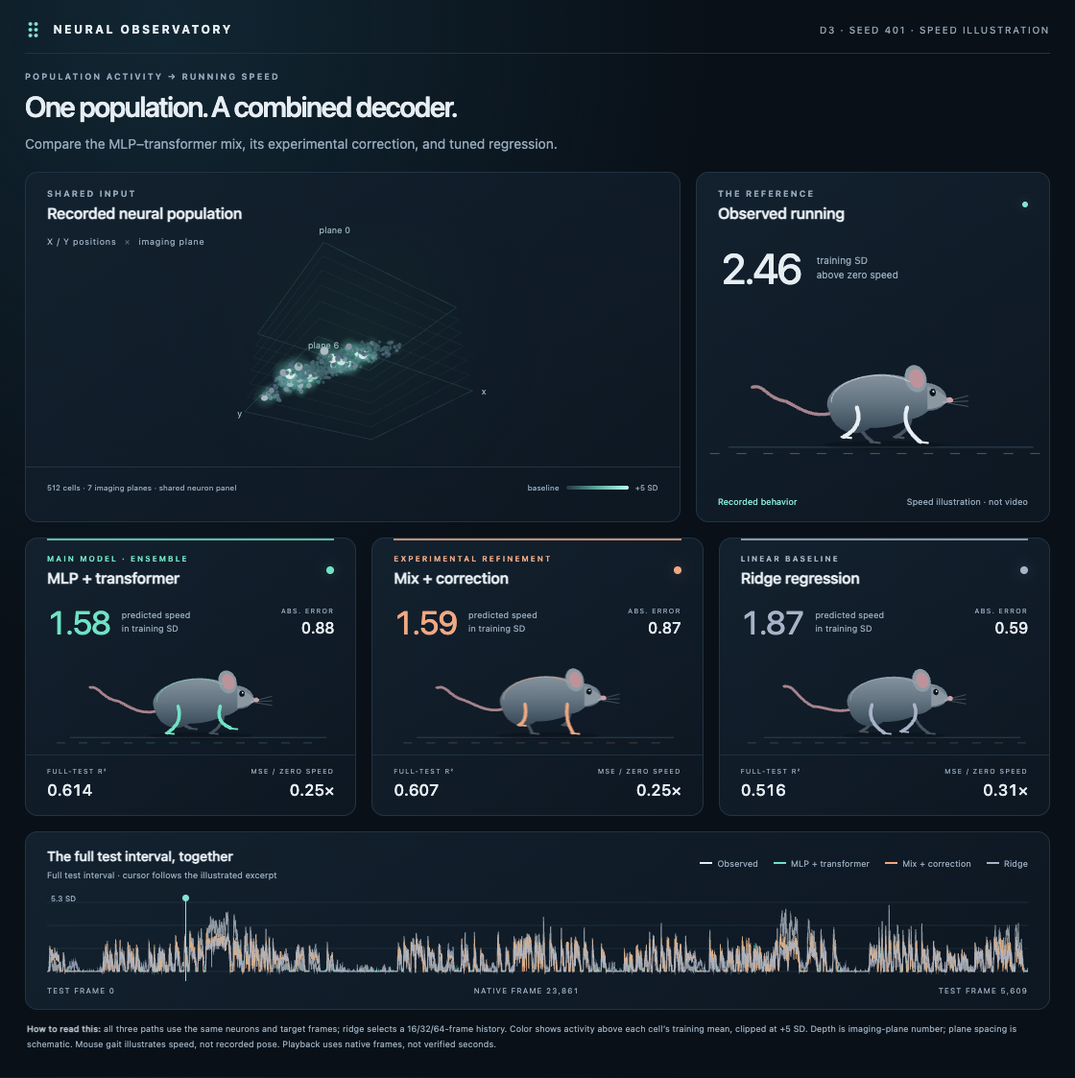
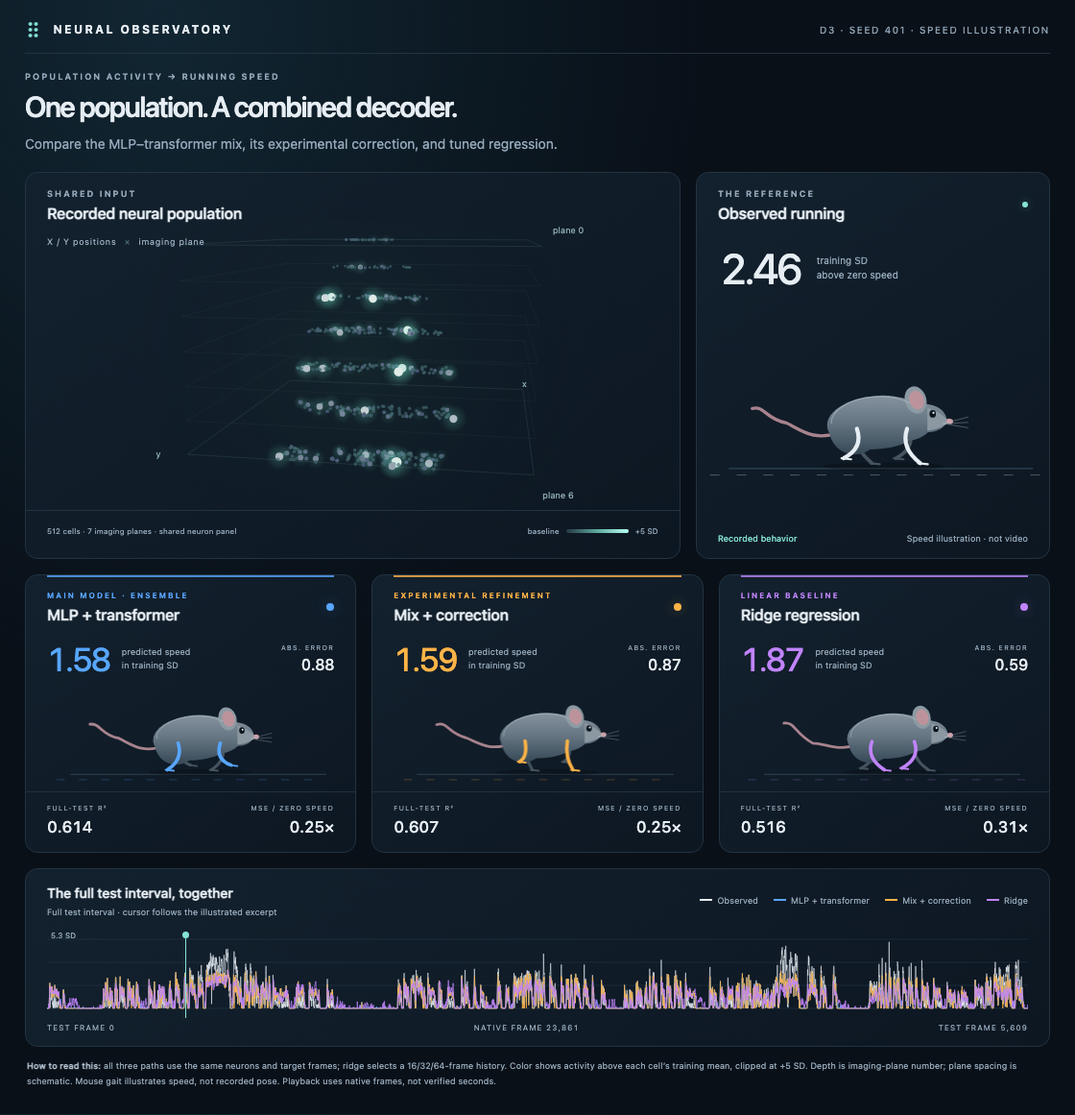
Improve replay colors and neuron view with neutral mouse bodies

diff --git a/portfolio/visualization/style.css b/portfolio/visualization/style.css
@@ -1,8 +1,8 @@
-:root{--bg:#091018;--panel:#101b27;--line:#233342;--text:#e6edf3;--muted:#95a8b9;--cyan:#85e3d4;--blend:#6fe3c4;--corrected:#f0a882;--ridge:#a8b3c7;--observed:#e6edf3;color-scheme:dark;font-family:Inter,ui-sans-serif,-apple-system,BlinkMacSystemFont,"Segoe UI",sans-serif}
-*{box-sizing:border-box}body{margin:0;background:radial-gradient(ellipse at 15% 2%,#112632 0,transparent 42%),var(--bg);color:var(--text);font-size:14px}main{max-width:1430px;padding:24px 38px 20px;margin:auto}button,select,input{font:inherit}button,select{cursor:pointer}button:focus-visible,select:focus-visible,input:focus-visible,canvas:focus-visible,summary:focus-visible,a:focus-visible{outline:2px solid var(--cyan);outline-offset:4px}a{color:var(--cyan)}button{color:var(--text)}button:disabled{opacity:.5;cursor:wait}button:hover{filter:brightness(1.15)}.masthead{display:flex;align-items:center;justify-content:space-between;padding-bottom:25px;border-bottom:1px solid var(--line)}.brand{font-size:12px;letter-spacing:2.4px;font-weight:700;text-decoration:none;color:var(--text);display:flex;align-items:center;gap:10px}.brand-mark{font-size:25px;color:var(--cyan);line-height:1}.archive-status{font-size:10px;letter-spacing:1.6px;color:var(--muted);display:flex;align-items:center;gap:9px}.archive-status i,.live-dot{width:6px;height:6px;display:inline-block;background:var(--cyan);border-radius:100%;box-shadow:0 0 10px #85e3d44d}.intro{display:flex;justify-content:space-between;align-items:center;padding:30px 0 27px;gap:24px}.eyebrow{font-size:9px;letter-spacing:1.9px;font-weight:650;color:var(--muted);margin:0 0 9px}h1{font-size:clamp(29px,3.2vw,44px);letter-spacing:-1.5px;font-weight:550;margin:0 0 10px;line-height:1.15}.subtitle{font-size:14px;color:var(--muted);margin:0;line-height:1.6}.intro-note{display:flex;gap:18px;align-items:center;color:var(--muted);font-size:11px;line-height:1.65;flex-shrink:0}.large-number{font-size:47px;font-weight:300;color:var(--cyan);letter-spacing:-2px}.toolbar{display:flex;gap:18px;align-items:center;border:1px solid var(--line);border-radius:12px;padding:13px 17px;background:#101b27bf;margin-bottom:20px;flex-wrap:wrap}.control{font-size:8px;letter-spacing:1.45px;color:var(--muted);display:grid;gap:5px}.control select{background:transparent;color:var(--text);border:0;padding:0 22px 0 0;font-size:12px;min-height:20px;letter-spacing:.1px}.control select option{background:#101b27}.toolbar-divider{width:1px;height:30px;background:var(--line);margin:0 3px}.play-button{background:var(--cyan);color:#0e2526;border:0;border-radius:7px;height:36px;padding:0 18px;min-width:90px;font-weight:650;display:flex;align-items:center;gap:9px;justify-content:center}.icon-button{background:#182736;border:1px solid #2d3f50;border-radius:6px;width:29px;height:30px;font-size:23px;line-height:1;margin-left:-9px}.rate-control{margin-left:3px}.frame-counter{font-size:11px;font-variant-numeric:tabular-nums;color:var(--muted);margin-left:auto}.panel{background:linear-gradient(145deg,#13212e,#0d1722);border:1px solid var(--line);border-radius:13px;overflow:hidden}.input-grid{display:grid;grid-template-columns:1.85fr 1fr;gap:20px;margin-bottom:20px}.panel-heading{display:flex;justify-content:space-between;align-items:center;padding:20px 22px 0;gap:12px}h2{font-size:16px;font-weight:550;letter-spacing:-.15px;margin:0}.panel-heading .eyebrow{margin-bottom:6px}.quiet-button{background:transparent;color:var(--muted);border:1px solid #314150;border-radius:6px;font-size:10px;padding:6px 9px;white-space:nowrap}.neural-stage{height:263px;position:relative}.neural-stage canvas{width:100%;height:100%;display:block;cursor:grab;touch-action:none}.neural-stage canvas:active{cursor:grabbing}.spatial-badge{position:absolute;left:22px;top:15px;font-size:9px;letter-spacing:.6px;color:var(--muted);pointer-events:none}.spatial-badge span{color:#537483;margin:0 5px}.orbit-hint{position:absolute;left:22px;bottom:14px;font-size:8px;letter-spacing:1.5px;color:#8ba0b3;pointer-events:none}.orbit-hint span{margin:0 5px}.neural-footer{height:43px;padding:0 22px;display:flex;align-items:center;justify-content:space-between;border-top:1px solid var(--line);gap:10px;font-size:9px;color:var(--muted)}.activity-key{display:flex;align-items:center;gap:7px;white-space:nowrap;font-size:8px}.activity-key i{width:65px;height:4px;border-radius:4px;background:linear-gradient(to right,#243745,#5eab9e,#b6fff1)}.neuron-tooltip{position:absolute;top:12px;right:18px;border:1px solid #48736f;padding:10px 12px;background:#0b171eed;border-radius:8px;font-size:10px;line-height:1.75;pointer-events:none;box-shadow:0 4px 18px #0005}.reference-panel{display:flex;flex-direction:column}.reference-panel .panel-heading{padding-bottom:0}.reference-reading{display:flex;align-items:center;gap:16px;padding:22px 25px 0}.reference-reading strong{font-size:44px;letter-spacing:-2px;font-weight:450;font-variant-numeric:tabular-nums}.reference-reading span{color:var(--muted);font-size:10px;line-height:1.5}.reference-panel .mouse-canvas{height:147px;flex:1;min-height:120px}.reference-footer{display:flex;justify-content:space-between;padding:0 22px 15px;gap:10px;color:var(--muted);font-size:9px}.reference-footer>span:first-child{color:var(--cyan)}.model-grid{display:grid;grid-template-columns:repeat(3,minmax(0,1fr));gap:20px;margin-bottom:20px}.model-card{position:relative;--model:var(--blend)}.model-card.corrected{--model:var(--corrected)}.model-card.ridge{--model:var(--ridge)}.model-card:before{position:absolute;left:22px;right:22px;top:0;height:2px;content:"";background:var(--model);opacity:.8}.model-heading{display:flex;justify-content:space-between;align-items:center;padding:20px 22px 0}.model-heading .eyebrow{font-size:8px;color:var(--model);margin-bottom:6px}.model-swatch{height:8px;width:8px;border-radius:50%;background:var(--model);box-shadow:0 0 13px color-mix(in srgb,var(--model),transparent 70%)}.prediction-reading{display:flex;align-items:center;padding:17px 22px 0;gap:12px}.prediction-reading>strong{font-size:34px;font-weight:450;font-variant-numeric:tabular-nums;letter-spacing:-1.4px;color:var(--model)}.prediction-reading>span{font-size:9px;line-height:1.5;color:var(--muted)}.instant-error{margin-left:auto;text-align:right;font-size:7px;letter-spacing:1.2px;color:var(--muted)}.instant-error strong{font-variant-numeric:tabular-nums;display:block;font-size:16px;font-weight:500;letter-spacing:0;margin-top:5px;color:var(--text)}.mouse-canvas{height:125px;width:100%;display:block}.metric-row{padding:12px 22px 16px;display:flex;justify-content:space-between;border-top:1px solid #21313f;gap:10px}.metric-row>div{display:flex;flex-direction:column;gap:6px}.metric-row>div:last-child{text-align:right}.metric-row span{font-size:7px;color:var(--muted);letter-spacing:1.2px}.metric-row strong{font-size:17px;font-weight:500;font-variant-numeric:tabular-nums}.metric-row .bad{color:#ecad9e}.timeline-panel{padding:20px 22px 14px}.timeline-heading{display:flex;justify-content:space-between;align-items:center;gap:12px;margin-bottom:15px}.timeline-heading h2{font-size:14px}.timeline-heading p{font-size:9px;color:var(--muted);margin:6px 0 0}.trace-legend{display:flex;gap:16px;font-size:9px;color:var(--muted);flex-wrap:wrap}.trace-legend span:before{content:"";width:13px;height:2px;display:inline-block;background:var(--observed);margin:0 5px 3px 0}.trace-legend .blend:before{background:var(--blend)}.trace-legend .corrected:before{background:var(--corrected)}.trace-legend .ridge:before{background:var(--ridge)}.trace-stage{height:108px;position:relative;cursor:crosshair}.trace-stage canvas{width:100%;height:100%;display:block}.trace-cursor{position:absolute;left:0;top:0;bottom:0;width:1px;background:var(--cyan);pointer-events:none;box-shadow:0 0 5px #85e3d430}.trace-cursor:before{position:absolute;left:-3px;top:0;content:"";width:7px;height:7px;background:var(--cyan);border-radius:50%}input[type=range]{width:100%;height:18px;accent-color:var(--cyan);margin:5px 0 0;cursor:pointer}.timeline-labels{display:flex;justify-content:space-between;font-size:8px;letter-spacing:1px;color:var(--muted);font-variant-numeric:tabular-nums;margin-top:5px}footer{padding:18px 2px 0;color:var(--muted);font-size:10px;line-height:1.8}footer>p{max-width:1100px;margin:0 0 10px}footer strong{font-weight:550;color:#b7c5d2}details{margin-top:12px}summary{cursor:pointer;width:fit-content;color:#b9cbd8;font-size:11px}.details-content{padding:10px 18px;border-left:1px solid var(--line);max-width:1000px}.details-content p{margin:0 0 10px}.footer-line{display:flex;justify-content:space-between;border-top:1px solid var(--line);padding-top:15px;margin-top:18px;font-size:8px;letter-spacing:1.4px;color:#728799}.error{border:1px solid #f0a882;padding:15px;margin-bottom:15px;border-radius:8px}.sr-only{position:absolute;width:1px;height:1px;overflow:hidden;clip:rect(0,0,0,0);white-space:nowrap}noscript{display:block;padding:24px;color:#f0a882}
+:root{--bg:#091018;--panel:#101b27;--line:#233342;--text:#e6edf3;--muted:#95a8b9;--cyan:#85e3d4;--blend:#58a6ff;--corrected:#ffb347;--ridge:#c084fc;--observed:#e6edf3;color-scheme:dark;font-family:Inter,ui-sans-serif,-apple-system,BlinkMacSystemFont,"Segoe UI",sans-serif}
+*{box-sizing:border-box}body{margin:0;background:radial-gradient(ellipse at 15% 2%,#112632 0,transparent 42%),var(--bg);color:var(--text);font-size:14px}main{max-width:1430px;padding:24px 38px 20px;margin:auto}button,select,input{font:inherit}button,select{cursor:pointer}button:focus-visible,select:focus-visible,input:focus-visible,canvas:focus-visible,summary:focus-visible,a:focus-visible{outline:2px solid var(--cyan);outline-offset:4px}a{color:var(--cyan)}button{color:var(--text)}button:disabled{opacity:.5;cursor:wait}button:hover{filter:brightness(1.15)}.masthead{display:flex;align-items:center;justify-content:space-between;padding-bottom:25px;border-bottom:1px solid var(--line)}.brand{font-size:12px;letter-spacing:2.4px;font-weight:700;text-decoration:none;color:var(--text);display:flex;align-items:center;gap:10px}.brand-mark{font-size:25px;color:var(--cyan);line-height:1}.archive-status{font-size:10px;letter-spacing:1.6px;color:var(--muted);display:flex;align-items:center;gap:9px}.archive-status i,.live-dot{width:6px;height:6px;display:inline-block;background:var(--cyan);border-radius:100%;box-shadow:0 0 10px #85e3d44d}.intro{display:flex;justify-content:space-between;align-items:center;padding:30px 0 27px;gap:24px}.eyebrow{font-size:9px;letter-spacing:1.9px;font-weight:650;color:var(--muted);margin:0 0 9px}h1{font-size:clamp(29px,3.2vw,44px);letter-spacing:-1.5px;font-weight:550;margin:0 0 10px;line-height:1.15}.subtitle{font-size:14px;color:var(--muted);margin:0;line-height:1.6}.intro-note{display:flex;gap:18px;align-items:center;color:var(--muted);font-size:11px;line-height:1.65;flex-shrink:0}.large-number{font-size:47px;font-weight:300;color:var(--cyan);letter-spacing:-2px}.toolbar{display:flex;gap:18px;align-items:center;border:1px solid var(--line);border-radius:12px;padding:13px 17px;background:#101b27bf;margin-bottom:20px;flex-wrap:wrap}.control{font-size:8px;letter-spacing:1.45px;color:var(--muted);display:grid;gap:5px}.control select{background:transparent;color:var(--text);border:0;padding:0 22px 0 0;font-size:12px;min-height:20px;letter-spacing:.1px}.control select option{background:#101b27}.toolbar-divider{width:1px;height:30px;background:var(--line);margin:0 3px}.play-button{background:var(--cyan);color:#0e2526;border:0;border-radius:7px;height:36px;padding:0 18px;min-width:90px;font-weight:650;display:flex;align-items:center;gap:9px;justify-content:center}.icon-button{background:#182736;border:1px solid #2d3f50;border-radius:6px;width:29px;height:30px;font-size:23px;line-height:1;margin-left:-9px}.rate-control{margin-left:3px}.frame-counter{font-size:11px;font-variant-numeric:tabular-nums;color:var(--muted);margin-left:auto}.panel{background:linear-gradient(145deg,#13212e,#0d1722);border:1px solid var(--line);border-radius:13px;overflow:hidden}.input-grid{display:grid;grid-template-columns:1.85fr 1fr;gap:20px;margin-bottom:20px}.panel-heading{display:flex;justify-content:space-between;align-items:center;padding:20px 22px 0;gap:12px}h2{font-size:16px;font-weight:550;letter-spacing:-.15px;margin:0}.panel-heading .eyebrow{margin-bottom:6px}.quiet-button{background:transparent;color:var(--muted);border:1px solid #314150;border-radius:6px;font-size:10px;padding:6px 9px;white-space:nowrap}.neural-stage{height:300px;position:relative}.neural-stage canvas{width:100%;height:100%;display:block;cursor:grab;touch-action:none}.neural-stage canvas:active{cursor:grabbing}.spatial-badge{position:absolute;left:22px;top:15px;font-size:9px;letter-spacing:.6px;color:var(--muted);pointer-events:none}.spatial-badge span{color:#537483;margin:0 5px}.orbit-hint{position:absolute;left:22px;bottom:14px;font-size:8px;letter-spacing:1.5px;color:#8ba0b3;pointer-events:none}.orbit-hint span{margin:0 5px}.neural-footer{height:43px;padding:0 22px;display:flex;align-items:center;justify-content:space-between;border-top:1px solid var(--line);gap:10px;font-size:9px;color:var(--muted)}.activity-key{display:flex;align-items:center;gap:7px;white-space:nowrap;font-size:8px}.activity-key i{width:65px;height:4px;border-radius:4px;background:linear-gradient(to right,#243745,#5eab9e,#b6fff1)}.neuron-tooltip{position:absolute;top:12px;right:18px;border:1px solid #48736f;padding:10px 12px;background:#0b171eed;border-radius:8px;font-size:10px;line-height:1.75;pointer-events:none;box-shadow:0 4px 18px #0005}.reference-panel{display:flex;flex-direction:column}.reference-panel .panel-heading{padding-bottom:0}.reference-reading{display:flex;align-items:center;gap:16px;padding:22px 25px 0}.reference-reading strong{font-size:44px;letter-spacing:-2px;font-weight:450;font-variant-numeric:tabular-nums}.reference-reading span{color:var(--muted);font-size:10px;line-height:1.5}.reference-panel .mouse-canvas{height:147px;flex:1;min-height:120px}.reference-footer{display:flex;justify-content:space-between;padding:0 22px 15px;gap:10px;color:var(--muted);font-size:9px}.reference-footer>span:first-child{color:var(--cyan)}.model-grid{display:grid;grid-template-columns:repeat(3,minmax(0,1fr));gap:20px;margin-bottom:20px}.model-card{position:relative;--model:var(--blend)}.model-card.corrected{--model:var(--corrected)}.model-card.ridge{--model:var(--ridge)}.model-card:before{position:absolute;left:22px;right:22px;top:0;height:2px;content:"";background:var(--model);opacity:.8}.model-heading{display:flex;justify-content:space-between;align-items:center;padding:20px 22px 0}.model-heading .eyebrow{font-size:8px;color:var(--model);margin-bottom:6px}.model-swatch{height:8px;width:8px;border-radius:50%;background:var(--model);box-shadow:0 0 13px color-mix(in srgb,var(--model),transparent 70%)}.prediction-reading{display:flex;align-items:center;padding:17px 22px 0;gap:12px}.prediction-reading>strong{font-size:34px;font-weight:450;font-variant-numeric:tabular-nums;letter-spacing:-1.4px;color:var(--model)}.prediction-reading>span{font-size:9px;line-height:1.5;color:var(--muted)}.instant-error{margin-left:auto;text-align:right;font-size:7px;letter-spacing:1.2px;color:var(--muted)}.instant-error strong{font-variant-numeric:tabular-nums;display:block;font-size:16px;font-weight:500;letter-spacing:0;margin-top:5px;color:var(--text)}.mouse-canvas{height:125px;width:100%;display:block}.metric-row{padding:12px 22px 16px;display:flex;justify-content:space-between;border-top:1px solid #21313f;gap:10px}.metric-row>div{display:flex;flex-direction:column;gap:6px}.metric-row>div:last-child{text-align:right}.metric-row span{font-size:7px;color:var(--muted);letter-spacing:1.2px}.metric-row strong{font-size:17px;font-weight:500;font-variant-numeric:tabular-nums}.metric-row .bad{color:#ecad9e}.timeline-panel{padding:20px 22px 14px}.timeline-heading{display:flex;justify-content:space-between;align-items:center;gap:12px;margin-bottom:15px}.timeline-heading h2{font-size:14px}.timeline-heading p{font-size:9px;color:var(--muted);margin:6px 0 0}.trace-legend{display:flex;gap:16px;font-size:9px;color:var(--muted);flex-wrap:wrap}.trace-legend span:before{content:"";width:13px;height:2px;display:inline-block;background:var(--observed);margin:0 5px 3px 0}.trace-legend .blend:before{background:var(--blend)}.trace-legend .corrected:before{background:var(--corrected)}.trace-legend .ridge:before{background:var(--ridge)}.trace-stage{height:108px;position:relative;cursor:crosshair}.trace-stage canvas{width:100%;height:100%;display:block}.trace-cursor{position:absolute;left:0;top:0;bottom:0;width:1px;background:var(--cyan);pointer-events:none;box-shadow:0 0 5px #85e3d430}.trace-cursor:before{position:absolute;left:-3px;top:0;content:"";width:7px;height:7px;background:var(--cyan);border-radius:50%}input[type=range]{width:100%;height:18px;accent-color:var(--cyan);margin:5px 0 0;cursor:pointer}.timeline-labels{display:flex;justify-content:space-between;font-size:8px;letter-spacing:1px;color:var(--muted);font-variant-numeric:tabular-nums;margin-top:5px}footer{padding:18px 2px 0;color:var(--muted);font-size:10px;line-height:1.8}footer>p{max-width:1100px;margin:0 0 10px}footer strong{font-weight:550;color:#b7c5d2}details{margin-top:12px}summary{cursor:pointer;width:fit-content;color:#b9cbd8;font-size:11px}.details-content{padding:10px 18px;border-left:1px solid var(--line);max-width:1000px}.details-content p{margin:0 0 10px}.footer-line{display:flex;justify-content:space-between;border-top:1px solid var(--line);padding-top:15px;margin-top:18px;font-size:8px;letter-spacing:1.4px;color:#728799}.error{border:1px solid #ffb347;padding:15px;margin-bottom:15px;border-radius:8px}.sr-only{position:absolute;width:1px;height:1px;overflow:hidden;clip:rect(0,0,0,0);white-space:nowrap}noscript{display:block;padding:24px;color:#ffb347}
 @media(min-width:1500px){main{padding-top:30px}.neural-stage{height:290px}.mouse-canvas{height:135px}}
 @media(max-width:950px){main{padding:20px}.intro-note{display:none}.input-grid{grid-template-columns:1.45fr 1fr;gap:14px}.model-grid{gap:14px}.frame-counter{margin-left:0}.model-heading,.prediction-reading{padding-left:16px;padding-right:16px}.model-heading h2{font-size:14px}.prediction-reading{gap:8px}.prediction-reading>strong{font-size:28px}.prediction-reading>span{font-size:8px}.instant-error{font-size:6px}.neural-footer{font-size:8px;padding:0 15px}.activity-key i{width:32px}}
 @media(max-width:680px){main{padding:16px}.masthead{padding-bottom:18px}.brand{font-size:10px;letter-spacing:1.4px}.archive-status{font-size:7px;letter-spacing:.8px}.intro{padding:24px 0 20px}.subtitle{font-size:12px}.toolbar{gap:13px;padding:12px}.toolbar-divider{display:none}.frame-counter{width:100%;border-top:1px solid var(--line);padding-top:10px}.input-grid{grid-template-columns:1fr}.neural-stage{height:270px}.reference-panel .mouse-canvas{height:155px;flex:none}.reference-reading{padding-top:12px}.model-grid{grid-template-columns:1fr}.model-heading h2{font-size:18px}.prediction-reading>strong{font-size:38px}.prediction-reading>span{font-size:10px}.model-card .mouse-canvas{height:150px}.instant-error{font-size:8px}.metric-row span{font-size:8px}.timeline-heading{align-items:flex-start;flex-direction:column;gap:13px}.trace-legend{gap:12px}.footer-line{gap:14px;font-size:7px}.neural-footer{padding:0 18px}.panel-heading{padding-left:18px;padding-right:18px}}
 @media(prefers-reduced-motion:reduce){*{scroll-behavior:auto}}
 /* Compact deterministic capture layout for the GitHub preview */
-body.capture main{padding:18px 26px 16px}body.capture .masthead{padding-bottom:12px}body.capture .intro{padding:18px 0}body.capture h1{font-size:30px}body.capture .intro-note{display:none}body.capture .toolbar{display:none}body.capture .input-grid,body.capture .model-grid{gap:16px;margin-bottom:16px}body.capture .neural-stage{height:255px}body.capture .neural-footer{font-size:8px}body.capture .orbit-hint,body.capture #reset-view{visibility:hidden}body.capture .panel-heading{padding-top:16px}body.capture .model-heading{padding-top:16px}body.capture .model-heading h2{font-size:16px}body.capture .mouse-canvas{height:118px}body.capture .reference-panel .mouse-canvas{height:150px}body.capture .timeline-panel{padding-top:16px}body.capture .trace-stage{height:90px}body.capture #scrubber{display:none}body.capture footer{font-size:9px;padding-top:12px}body.capture footer details,body.capture .footer-line{display:none}
+body.capture main{padding:18px 26px 16px}body.capture .masthead{padding-bottom:12px}body.capture .intro{padding:18px 0}body.capture h1{font-size:30px}body.capture .intro-note{display:none}body.capture .toolbar{display:none}body.capture .input-grid,body.capture .model-grid{gap:16px;margin-bottom:16px}body.capture .neural-stage{height:300px}body.capture .neural-footer{font-size:8px}body.capture .orbit-hint,body.capture #reset-view{visibility:hidden}body.capture .panel-heading{padding-top:16px}body.capture .model-heading{padding-top:16px}body.capture .model-heading h2{font-size:16px}body.capture .mouse-canvas{height:118px}body.capture .reference-panel .mouse-canvas{height:150px}body.capture .timeline-panel{padding-top:16px}body.capture .trace-stage{height:90px}body.capture #scrubber{display:none}body.capture footer{font-size:9px;padding-top:12px}body.capture footer details,body.capture .footer-line{display:none}

diff --git a/portfolio/visualization/capture.js b/portfolio/visualization/capture.js
@@ -10,7 +10,7 @@ const preview = process.argv.includes('--preview');
 
 (async () => {
   fs.mkdirSync(out, {recursive:true});
-  const browser = await chromium.launch({channel:'chrome', headless:true});
+  const browser = await chromium.launch({channel:'chrome', headless:true, args:['--disable-gpu']});
   try {
     const page = await browser.newPage({viewport:{width:1120,height:1200},deviceScaleFactor:1,reducedMotion:'reduce'});
     const errors=[], requests=[];
@@ -72,8 +72,8 @@ const preview = process.argv.includes('--preview');
       await page.click('#play');await page.waitForTimeout(250);await page.click('#play');
       assert.ok((await page.evaluate(()=>window.neuralViewer.snapshot())).frame>1);
       await page.locator('#neurons').focus();await page.keyboard.press('ArrowRight');
-      assert.notEqual((await page.evaluate(()=>window.neuralViewer.snapshot())).camera.yaw,-.57);
-      await page.click('#reset-view');assert.equal((await page.evaluate(()=>window.neuralViewer.snapshot())).camera.yaw,-.57);
+      assert.notEqual((await page.evaluate(()=>window.neuralViewer.snapshot())).camera.yaw,-1.4);
+      await page.click('#reset-view');assert.equal((await page.evaluate(()=>window.neuralViewer.snapshot())).camera.yaw,-1.4);
       await page.setViewportSize({width:390,height:844});await page.waitForTimeout(100);
       assert.ok(await page.evaluate(()=>document.documentElement.scrollWidth<=window.innerWidth));
       await page.screenshot({path:path.join(out,'mobile.png'),fullPage:true});
@@ -89,6 +89,8 @@ const preview = process.argv.includes('--preview');
     await page.waitForTimeout(100);
     const height=await page.evaluate(()=>Math.ceil(document.querySelector('main').getBoundingClientRect().bottom));
     await page.setViewportSize({width:1120,height});
+    await page.evaluate(f=>window.neuralViewer.setFrame(f),clip.start+72);
+    await page.evaluate(()=>new Promise(resolve=>requestAnimationFrame(()=>requestAnimationFrame(resolve))));
     await page.screenshot({path:path.join(out,'preview.png'),fullPage:true});
     if(preview){console.log(JSON.stringify({clip,height,errors,requests}));return;}
     const fps=50, duration=12, snapshots=[];
@@ -96,7 +98,7 @@ const preview = process.argv.includes('--preview');
       const head=clip.start+i*12/fps;
       const s=await page.evaluate(f=>{window.neuralViewer.setFrame(f);return window.neuralViewer.snapshot();},head);
       assert.equal(s.frame,Math.floor(head));assert.equal(s.visibleNeuronCount,512);
-      assert.deepEqual(s.camera,{yaw:-.57,pitch:.55,zoom:1});
+      assert.deepEqual(s.camera,{yaw:-1.4,pitch:-.15,zoom:1});
       snapshots.push(s);
       await page.screenshot({path:path.join(out,`frame-${String(i).padStart(4,'0')}.png`)});
       if(i%100===0)console.log(`Captured ${i}/600 frames`);

diff --git a/portfolio/visualization/app.js b/portfolio/visualization/app.js
@@ -3,9 +3,9 @@
   'use strict';
   const $ = id => document.getElementById(id);
   const models = ['blend', 'corrected', 'ridge'];
-  const colors = { observed: '#e6edf3', blend: '#6fe3c4', corrected: '#f0a882', ridge: '#a8b3c7' };
+  const colors = { observed: '#e6edf3', blend: '#58a6ff', corrected: '#ffb347', ridge: '#c084fc' };
   const state = { recording: null, seed: 401, head: 0, playing: false, rate: 12,
-    yaw: -.57, pitch: .55, zoom: 1, hover: -1, lastFrame: -1, dirty: true };
+    yaw: -1.4, pitch: -.15, zoom: 1, hover: -1, lastFrame: -1, dirty: true };
   const cache = new Map();
   const canvasCache = new Map();
   let projections = [], cloudWidth = 0, cloudHeight = 0, lastTick = 0, pointer = null;
@@ -236,7 +236,7 @@
     ctx.strokeStyle='#acbcc580';ctx.lineWidth=.7;
     for(const offset of [-5,0,5]){ctx.beginPath();ctx.moveTo(56,-7);ctx.lineTo(79,-8+offset);ctx.stroke();}
     leg(-25,0,false);leg(22,Math.PI,false);
-    ctx.strokeStyle=ink+'8c';ctx.lineWidth=1;ctx.beginPath();ctx.ellipse(-7,-10,42,22,-.07,Math.PI,Math.PI*1.78);ctx.stroke();
+    ctx.strokeStyle='#b6c4cf8c';ctx.lineWidth=1;ctx.beginPath();ctx.ellipse(-7,-10,42,22,-.07,Math.PI,Math.PI*1.78);ctx.stroke();
     ctx.restore();
   }
 
@@ -297,7 +297,7 @@
     $('rate').addEventListener('change',event=>{state.rate=Number(event.target.value);});
     $('scrubber').addEventListener('input',event=>{setPlaying(false);seek(Number(event.target.value));});
     $('trace').addEventListener('pointerdown',event=>{const r=event.target.getBoundingClientRect();setPlaying(false);seek(Math.round((event.clientX-r.left)/r.width*(state.recording.frames-1)));});
-    $('reset-view').addEventListener('click',()=>{state.yaw=-.57;state.pitch=.55;state.zoom=1;state.dirty=true;render();});
+    $('reset-view').addEventListener('click',()=>{state.yaw=-1.4;state.pitch=-.15;state.zoom=1;state.dirty=true;render();});
     const cloud=$('neurons');
     cloud.addEventListener('pointerdown',event=>{pointer={x:event.clientX,y:event.clientY};cloud.setPointerCapture(event.pointerId);});
     cloud.addEventListener('pointermove',event=>{

diff --git a/portfolio/visualization/encode_gif.py b/portfolio/visualization/encode_gif.py
@@ -36,7 +36,7 @@ def main(folder):
         with Image.open(paths[index]) as img:
             sheet.paste(img.convert('RGB'),(i%2*width,i//2*height))
     #preserve small text and model accents instead of letting dark backgrounds dominate the palette
-    for i, color in enumerate(['#6fe3c4','#f0a882','#a8b3c7','#e6edf3','#95a8b9','#8795a0','#657582','#bd939b','#85e3d4']):
+    for i, color in enumerate(['#58a6ff','#ffb347','#c084fc','#e6edf3','#95a8b9','#8795a0','#657582','#bd939b','#85e3d4']):
         sheet.paste(color,(i*200,height*3,(i+1)*200,height*3+128))
     palette = sheet.quantize(colors=256, method=Image.Quantize.MEDIANCUT)
     frames=[]
@@ -52,6 +52,8 @@ def main(folder):
         for i in range(gif.n_frames): gif.seek(i); delays.append(gif.info['duration'])
         assert sum(delays)==12000 and gif.size==(capture['width'],capture['height'])
         review={k:v for k,v in capture.items() if k!='snapshots'}
+        review['camera']=capture['snapshots'][0]['camera']
+        review['model_colors']={'blend':'#58a6ff','corrected':'#ffb347','ridge':'#c084fc','observed':'#e6edf3'}
         review.update(asset=target.name,bytes=target.stat().st_size,sha256=sha(target),encoded_frames=gif.n_frames,
             encoded_duration_ms=sum(delays),infinite_loop=True,original_displayed_speeds_checked=2400,
             full_test_metrics_unchanged_every_frame=True,source_sha256={p.name:sha(p) for p in [HERE/'index.html',HERE/'app.js',HERE/'style.css',HERE/'data.js',HERE/'capture.js',HERE/'encode_gif.py']},

diff --git a/portfolio/visualization/README.md b/portfolio/visualization/README.md
@@ -8,6 +8,8 @@ Open [index.html](index.html) in a browser. Keep it beside `style.css`, `app.js`
 
 [Static preview](preview.png) · [Five-model results chart](../results/current_models.png) · [Correction trade-off](../results/correction_tradeoff.png)
 
+In this replay, **blue = mix**, **orange = mix + correction**, **violet = ridge**, and the neutral mouse shows observed speed. Mouse bodies stay neutral gray; model colors identify the legs, panel accents and timeline. The fixed camera looks across the slanted neuron population, with more vertical space to distinguish the imaging planes; recorded coordinates are unchanged.
+
 ## What you can explore
 
 - All four sensorimotor mice (D3/D4/D7/D9), three paired parent seeds (401/402/403), and every scored test frame: **18,892 frames** total. The correction seeds are 601/602/603, paired respectively. Ridge is deterministic.
